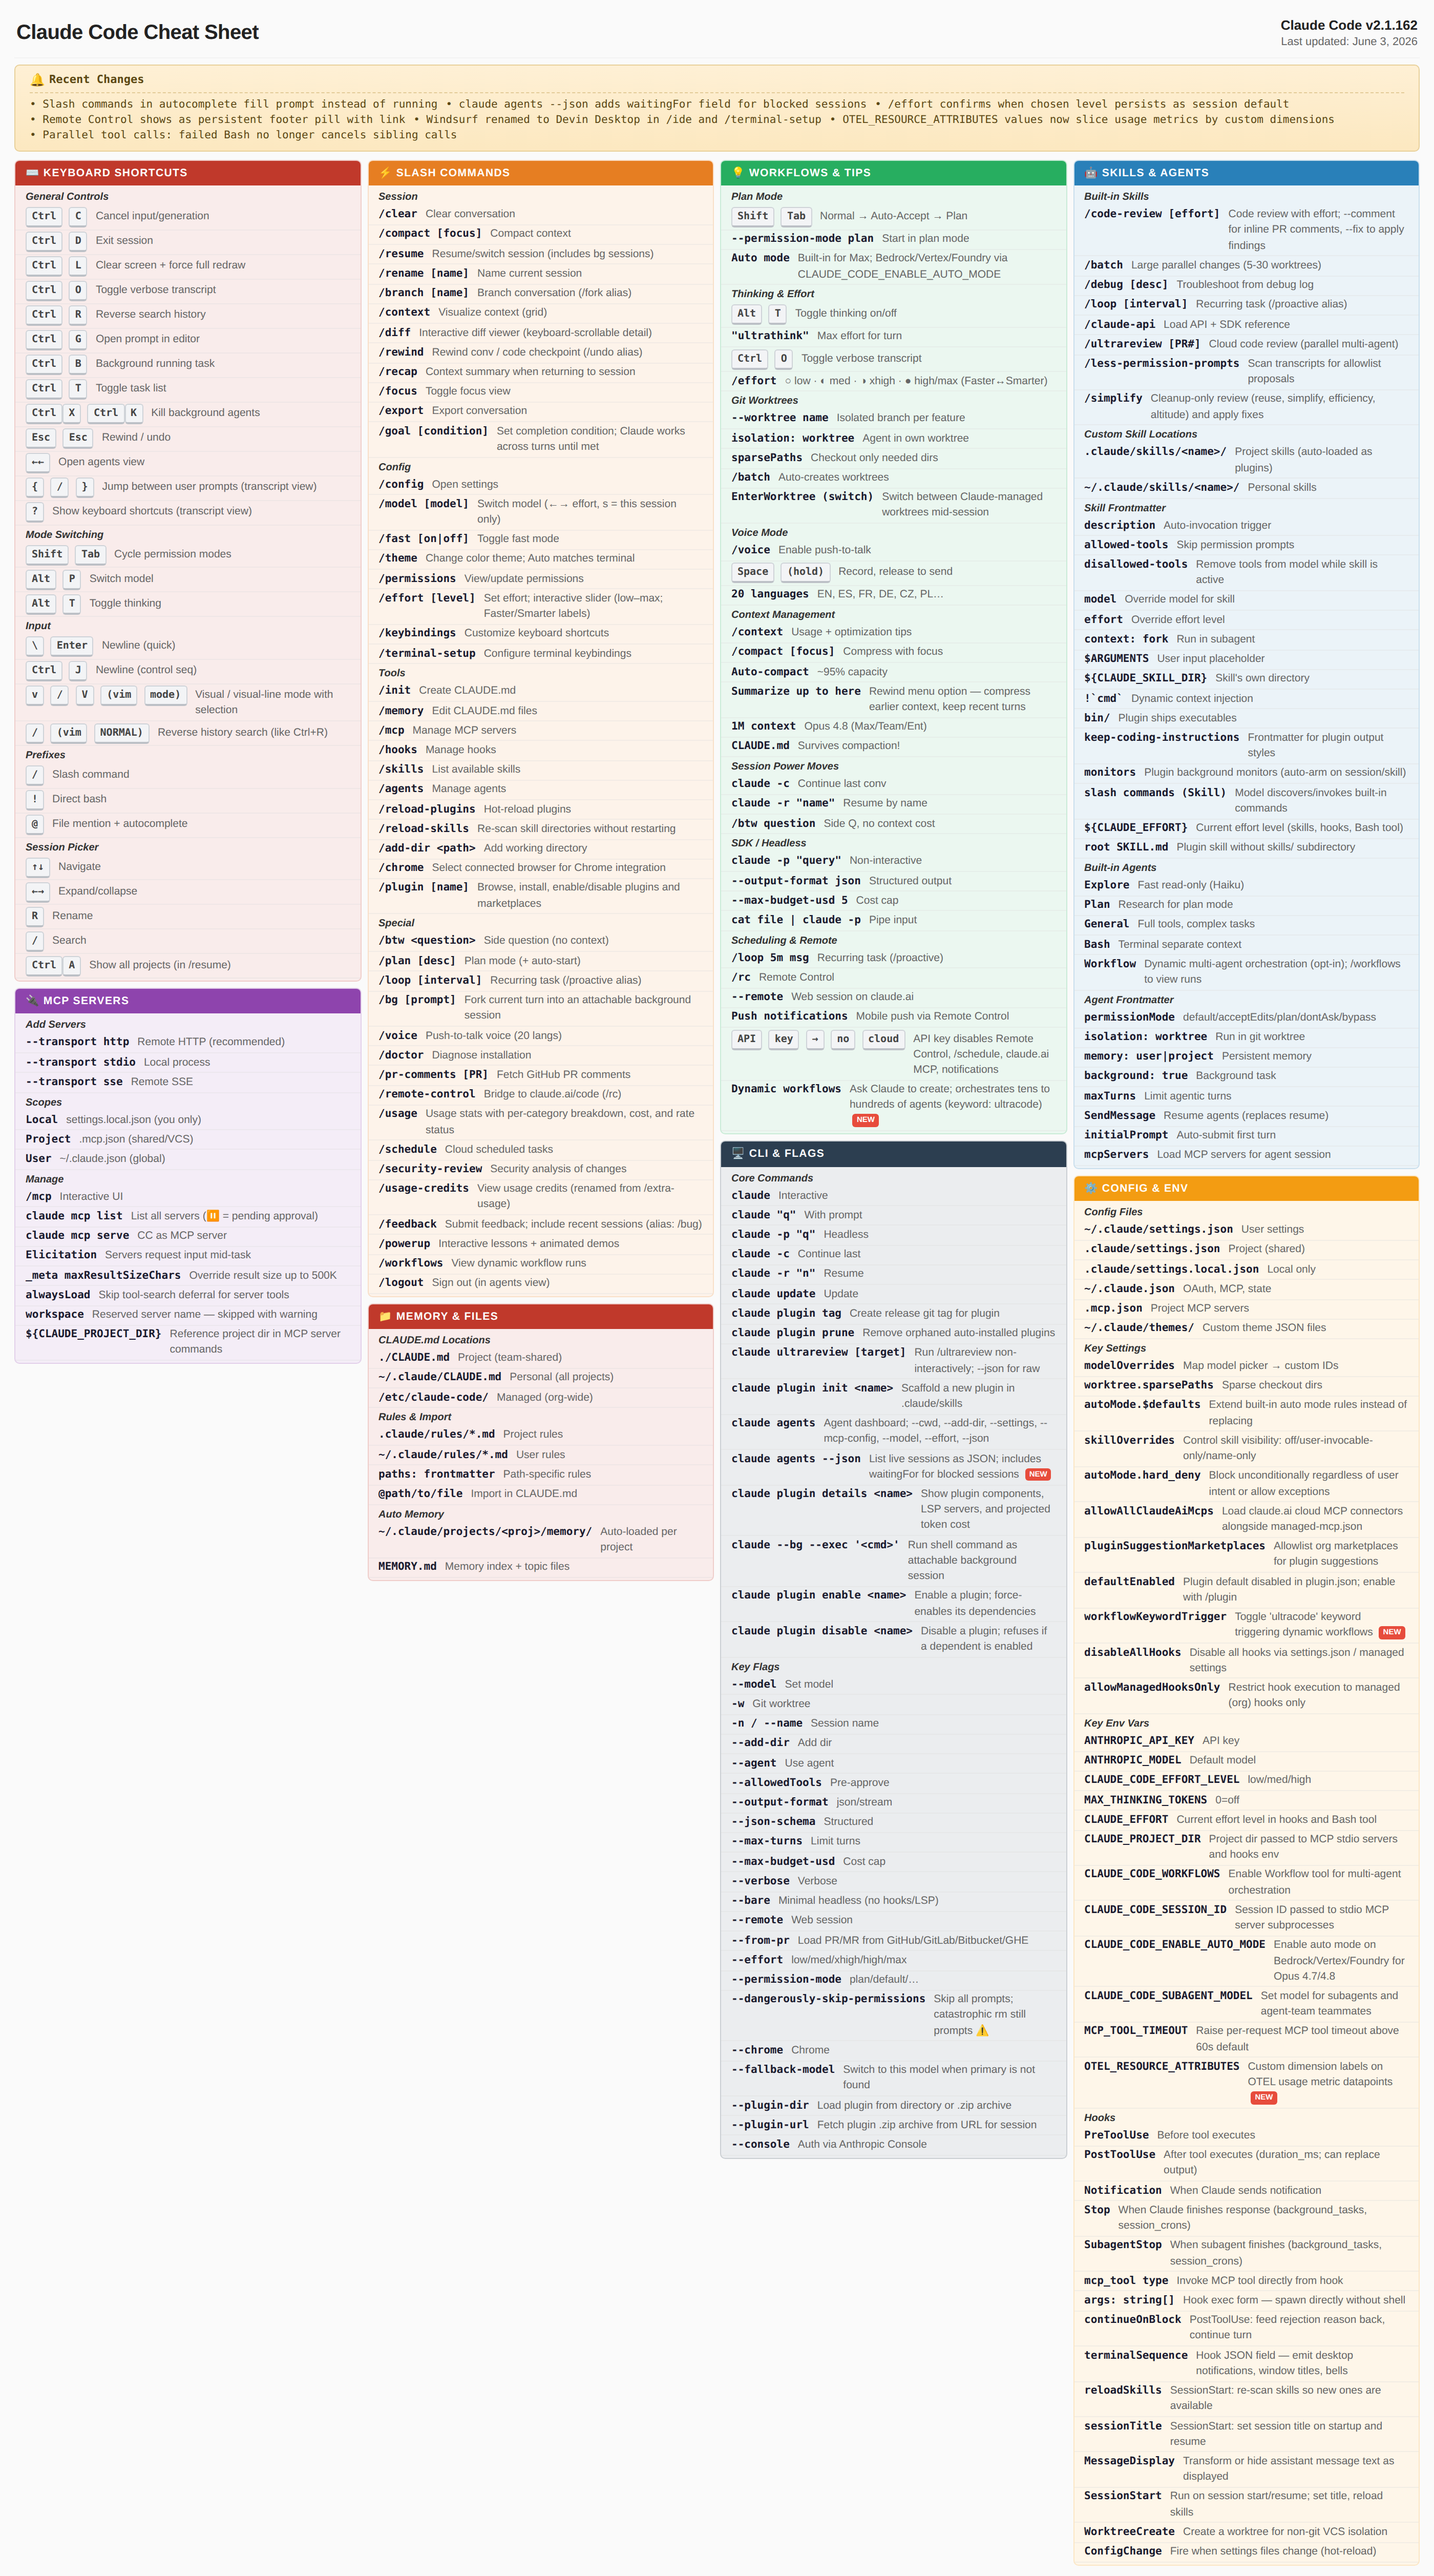
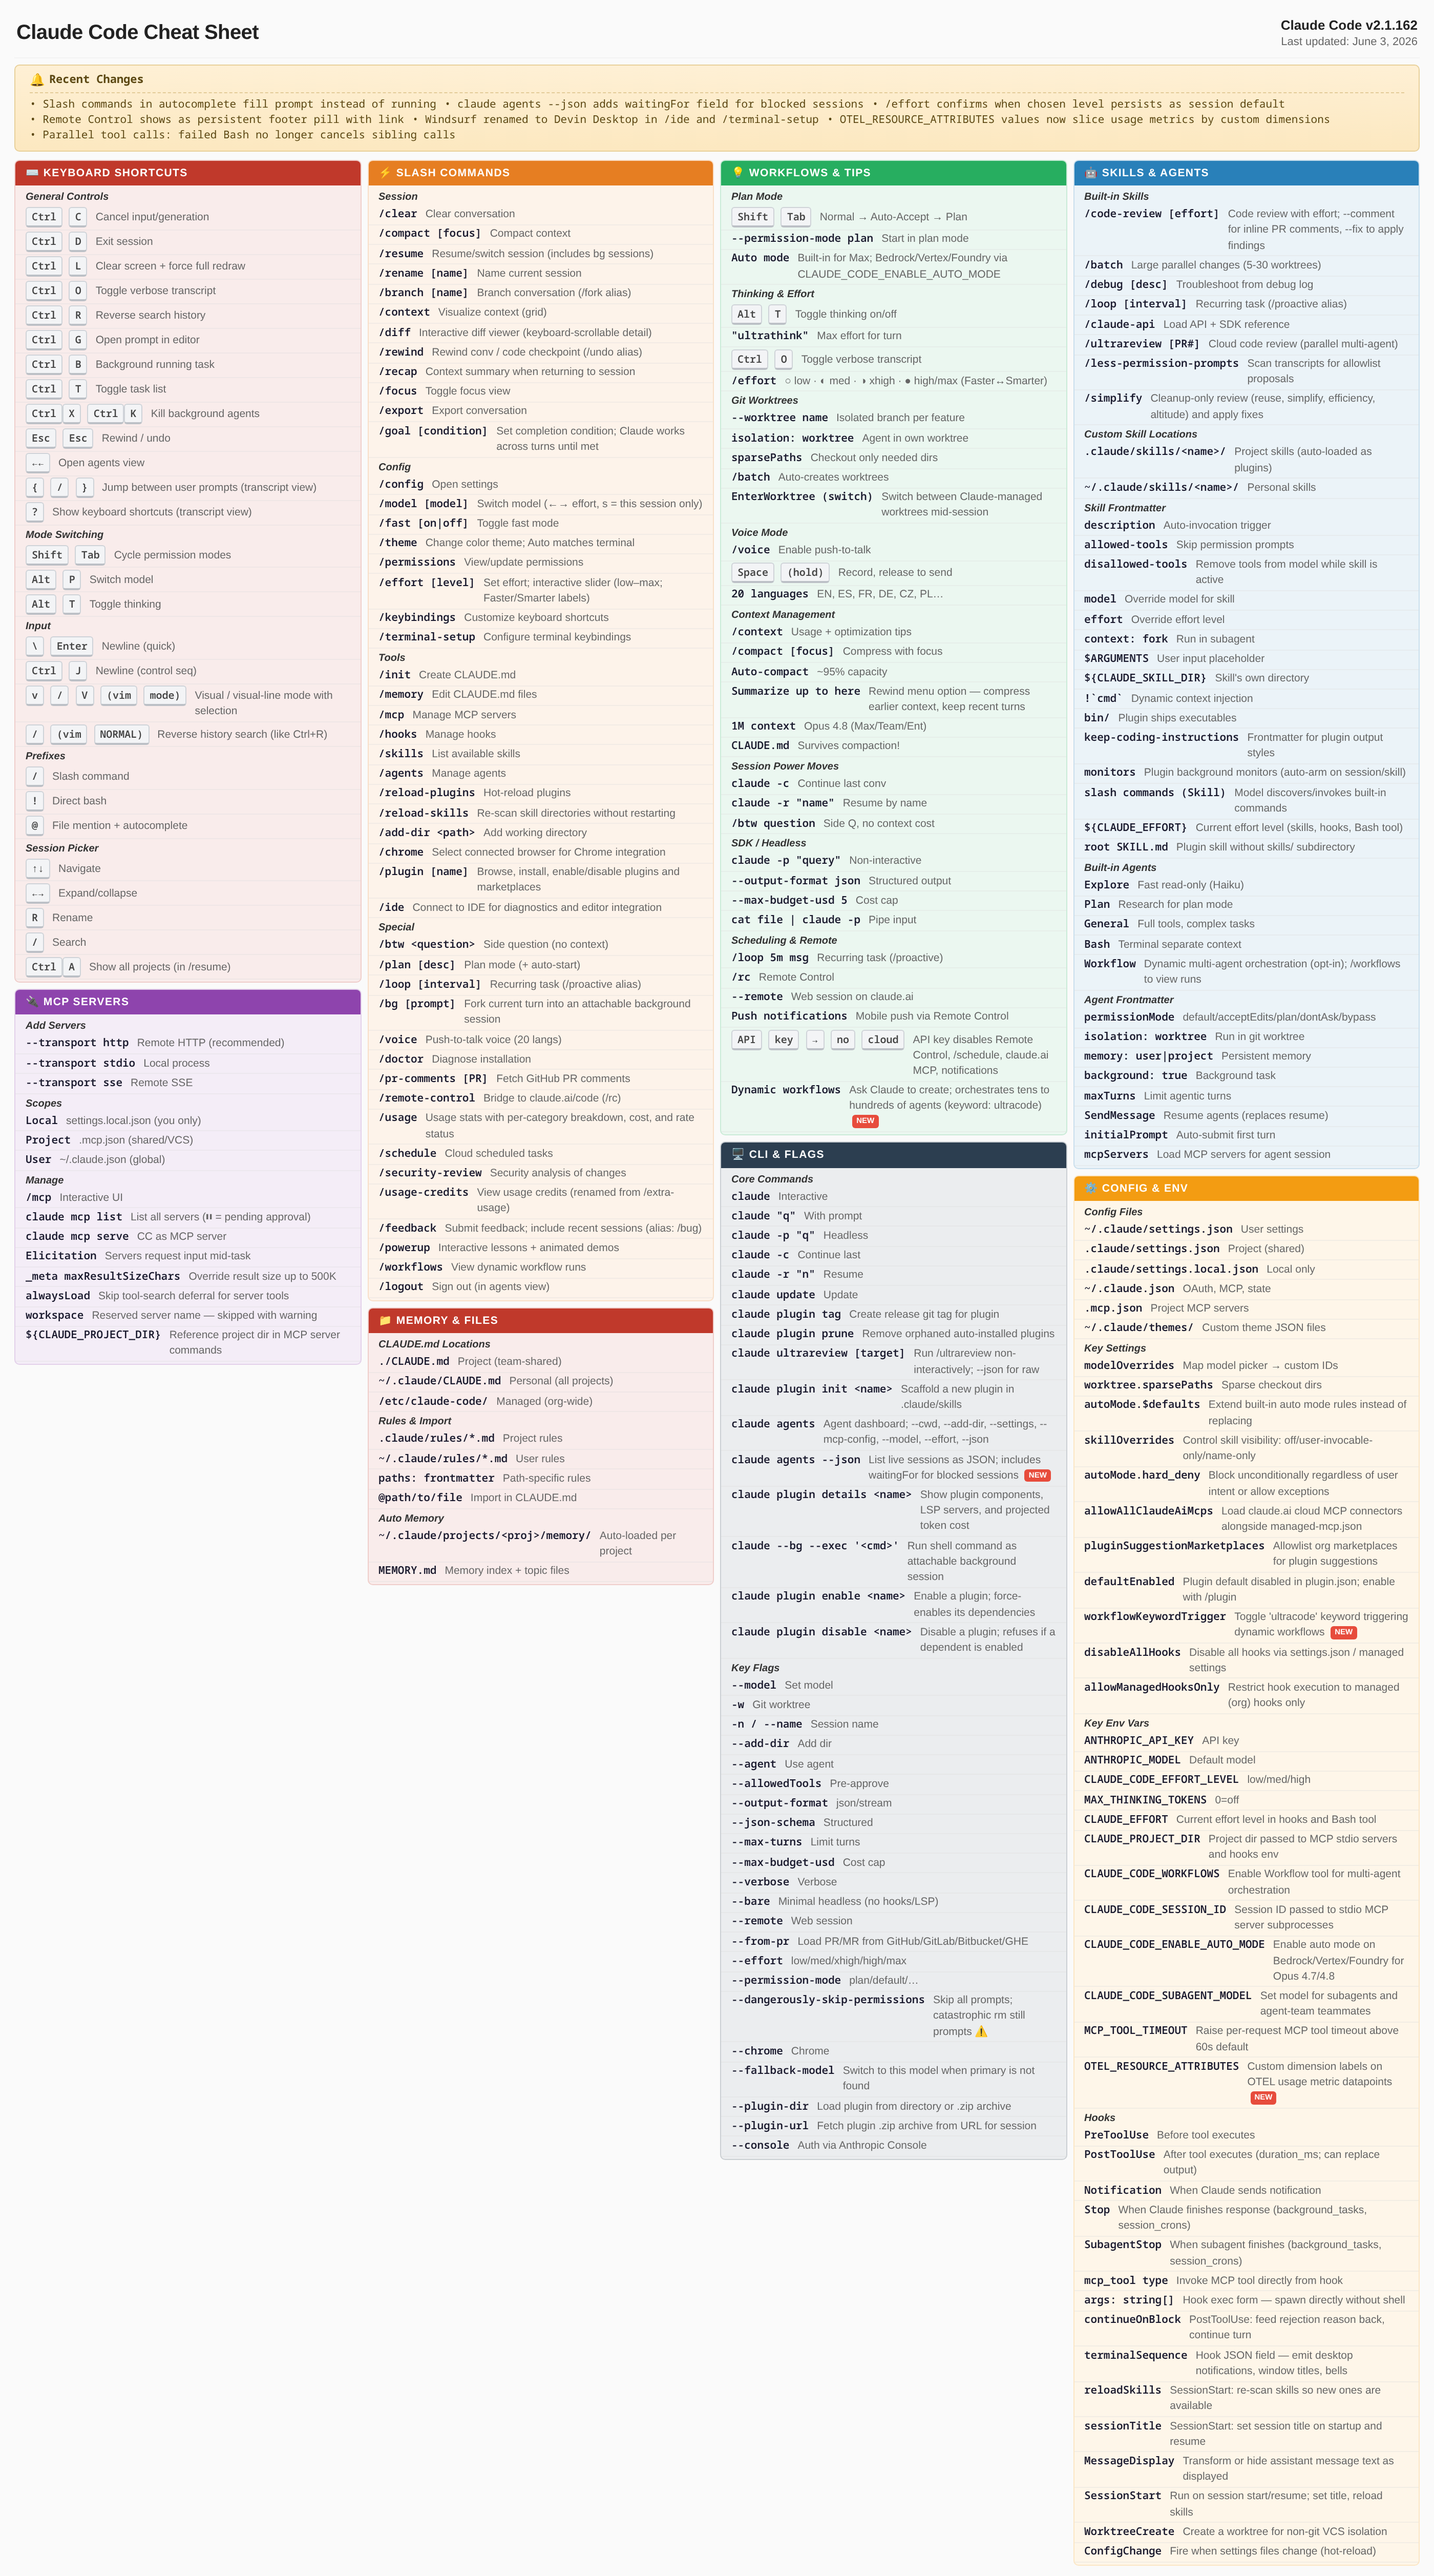
cheatsheet: add /ide slash command
Surfaced by the coverage guard on the 2.1.162 run — /ide is a real,
useful slash command (IDE diagnostics + editor integration) that was
absent from the sheet. Added to slash-commands Tools (48/50).

diff --git a/docs/index.html b/docs/index.html
@@ -502,6 +502,10 @@ kbd{
                 <span class="item-key">/plugin [name]</span>
                 <span class="item-val">Browse, install, enable/disable plugins and marketplaces</span>
               </div>
+              <div class="item" data-copy="/ide">
+                <span class="item-key">/ide</span>
+                <span class="item-val">Connect to IDE for diagnostics and editor integration</span>
+              </div>
             </div>
             <div class="group">
               <div class="group-label">Special</div>

diff --git a/README.md b/README.md
@@ -6,7 +6,7 @@
 > Refreshed every 5 minutes from the official [CHANGELOG](https://github.com/anthropics/claude-code/blob/main/CHANGELOG.md).
 
 [![Version](https://img.shields.io/badge/Claude_Code-v2.1.162-blue)](https://github.com/anthropics/claude-code)
-[![Items](https://img.shields.io/badge/items-252-green)](CHEATSHEET.md)
+[![Items](https://img.shields.io/badge/items-253-green)](CHEATSHEET.md)
 [![RSS](https://img.shields.io/badge/RSS-feed-orange)](https://defaultperson.github.io/cc-live-cheatsheet/feed.xml)
 
 **[Live interactive version →](https://defaultperson.github.io/cc-live-cheatsheet/)**

diff --git a/CHEATSHEET.md b/CHEATSHEET.md
@@ -147,6 +147,7 @@
 | `/add-dir <path>` | Add working directory |
 | `/chrome` | Select connected browser for Chrome integration |
 | `/plugin [name]` | Browse, install, enable/disable plugins and marketplaces |
+| `/ide` | Connect to IDE for diagnostics and editor integration |
 
 ### Special
 
